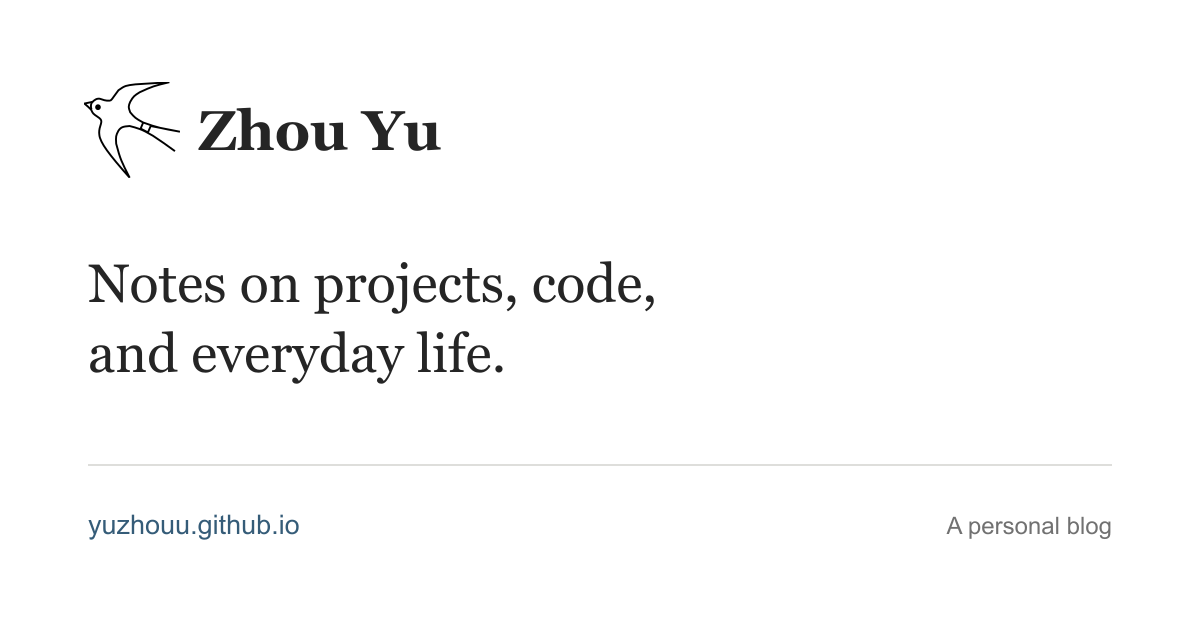
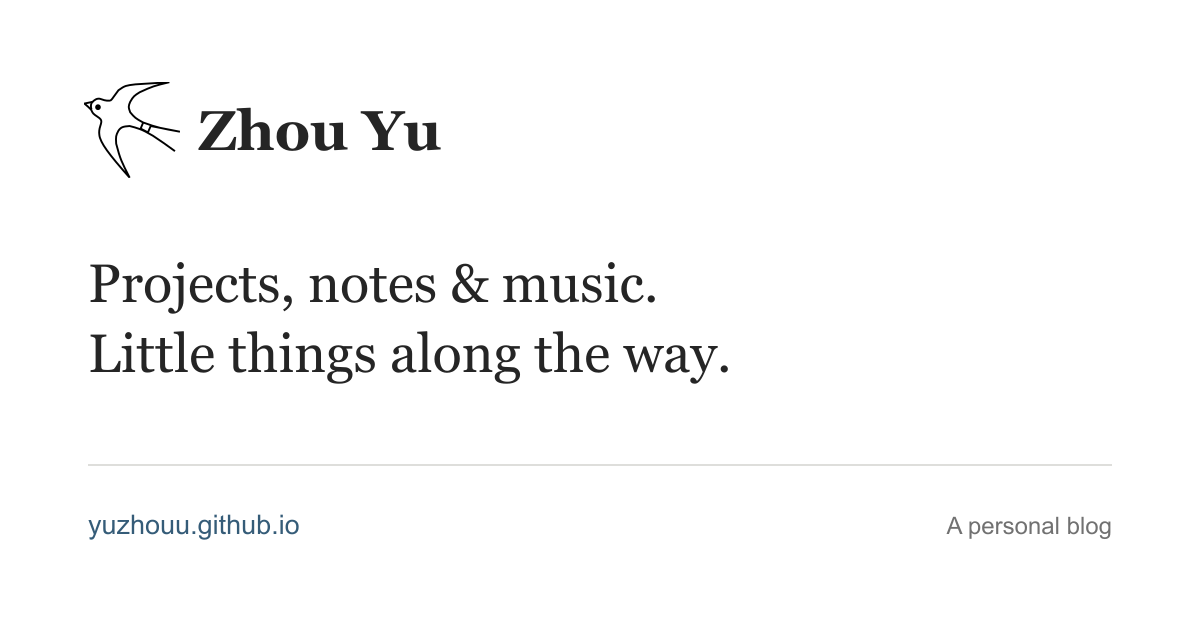
Refine site SEO and fix timeline RSS anchors

Changed region(s): [[0.0617, 0.4222, 0.6167, 0.6032]]

diff --git a/src/pages/rss.xml.ts b/src/pages/rss.xml.ts
@@ -5,7 +5,7 @@ import { getTimeline } from "../lib/timeline";
 
 export const GET: APIRoute = async (context) =>
   rss({
-    title: `${site.name}'s Blog`,
+    title: site.title,
     description: site.description,
     site: context.site!,
     items: (await getTimeline()).map((item) => ({
@@ -13,7 +13,8 @@ export const GET: APIRoute = async (context) =>
         item.kind === "project" ? item.entry.data.name : item.entry.data.title,
       description: item.entry.data.description,
       pubDate: item.entry.data.publishedAt,
-      link: item.href,
+      // Absolute URLs keep the RSS generator from appending a slash to anchors.
+      link: new URL(item.href, context.site!).href,
     })),
     customData: "<language>en</language>",
   });

diff --git a/src/data/site.ts b/src/data/site.ts
@@ -1,7 +1,9 @@
 export const site = {
   name: "Zhou Yu",
+  title: "Zhou Yu · Projects, Notes & Music",
+  tagline: "Projects, notes, music, and little things along the way.",
   description:
-    "Zhou Yu's personal blog. Notes on projects, code, and everyday life.",
+    "Zhou Yu's personal blog. Projects, notes on code and everyday life, and music recommendations.",
   github: "https://github.com/yuzhouu",
   email: "mailto:yuzhou.ini@outlook.com",
 };

diff --git a/README.md b/README.md
@@ -63,6 +63,14 @@ Images load lazily by default. Use `loading="eager"` on the image tag for an ima
 
 The shared preview image is `public/og.png` (1200 × 630); its editable SVG source is `src/assets/social-card.svg`. Run `pnpm og:generate` after editing the SVG. Page titles and descriptions appear in Open Graph and Twitter card metadata. Published articles also include `BlogPosting` JSON-LD with their canonical URL, author, publication date, and optional revision date.
 
+The home page and RSS use the title **Zhou Yu · Projects, Notes & Music** and the
+default description from `src/data/site.ts`. The same file holds the short tagline
+used on Timeline, About, and in preview-image alternative text. Keep the social
+card SVG copy in sync when changing that tagline, then regenerate `public/og.png`.
+Other pages keep their own titles and descriptions; the post archive has a
+dedicated summary, and individual articles use their frontmatter. Timeline shares
+remain part of the home page, with anchor links rather than separate detail pages.
+
 ## Timeline
 
 The **Timeline** navigation link opens the home page (`/`), where published articles,
